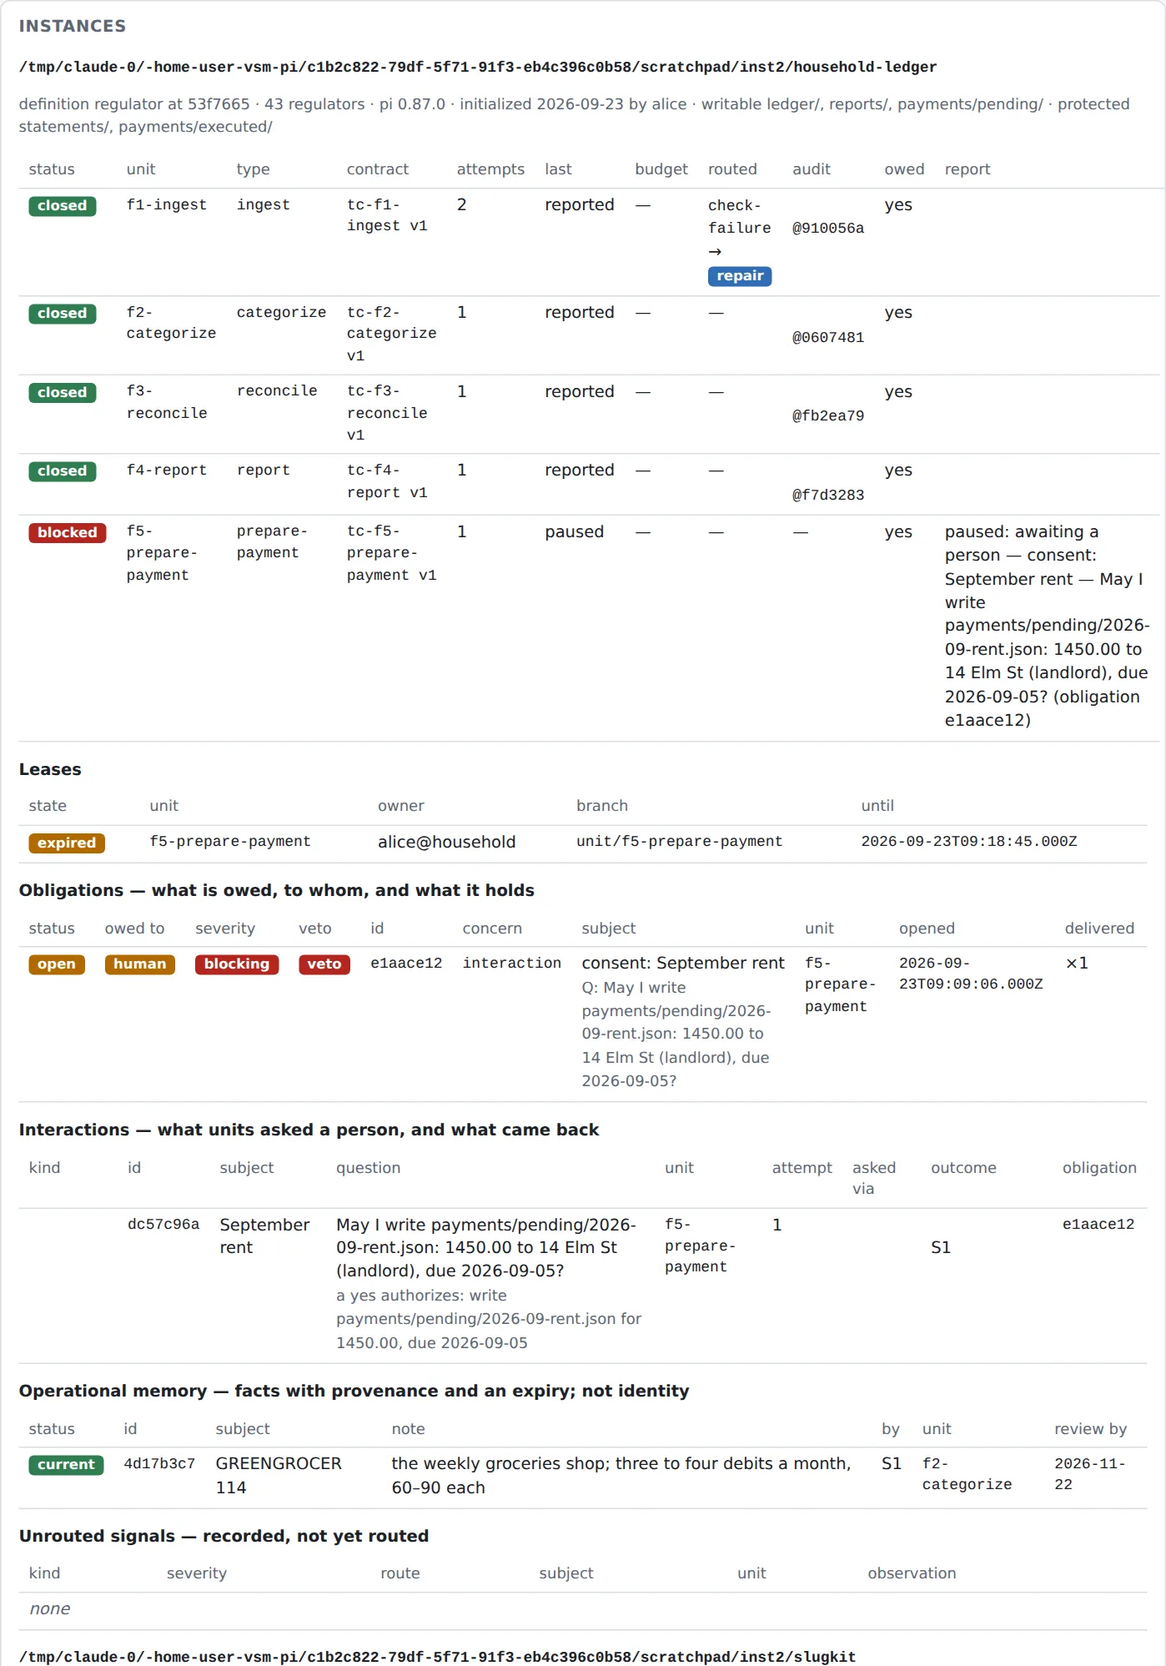
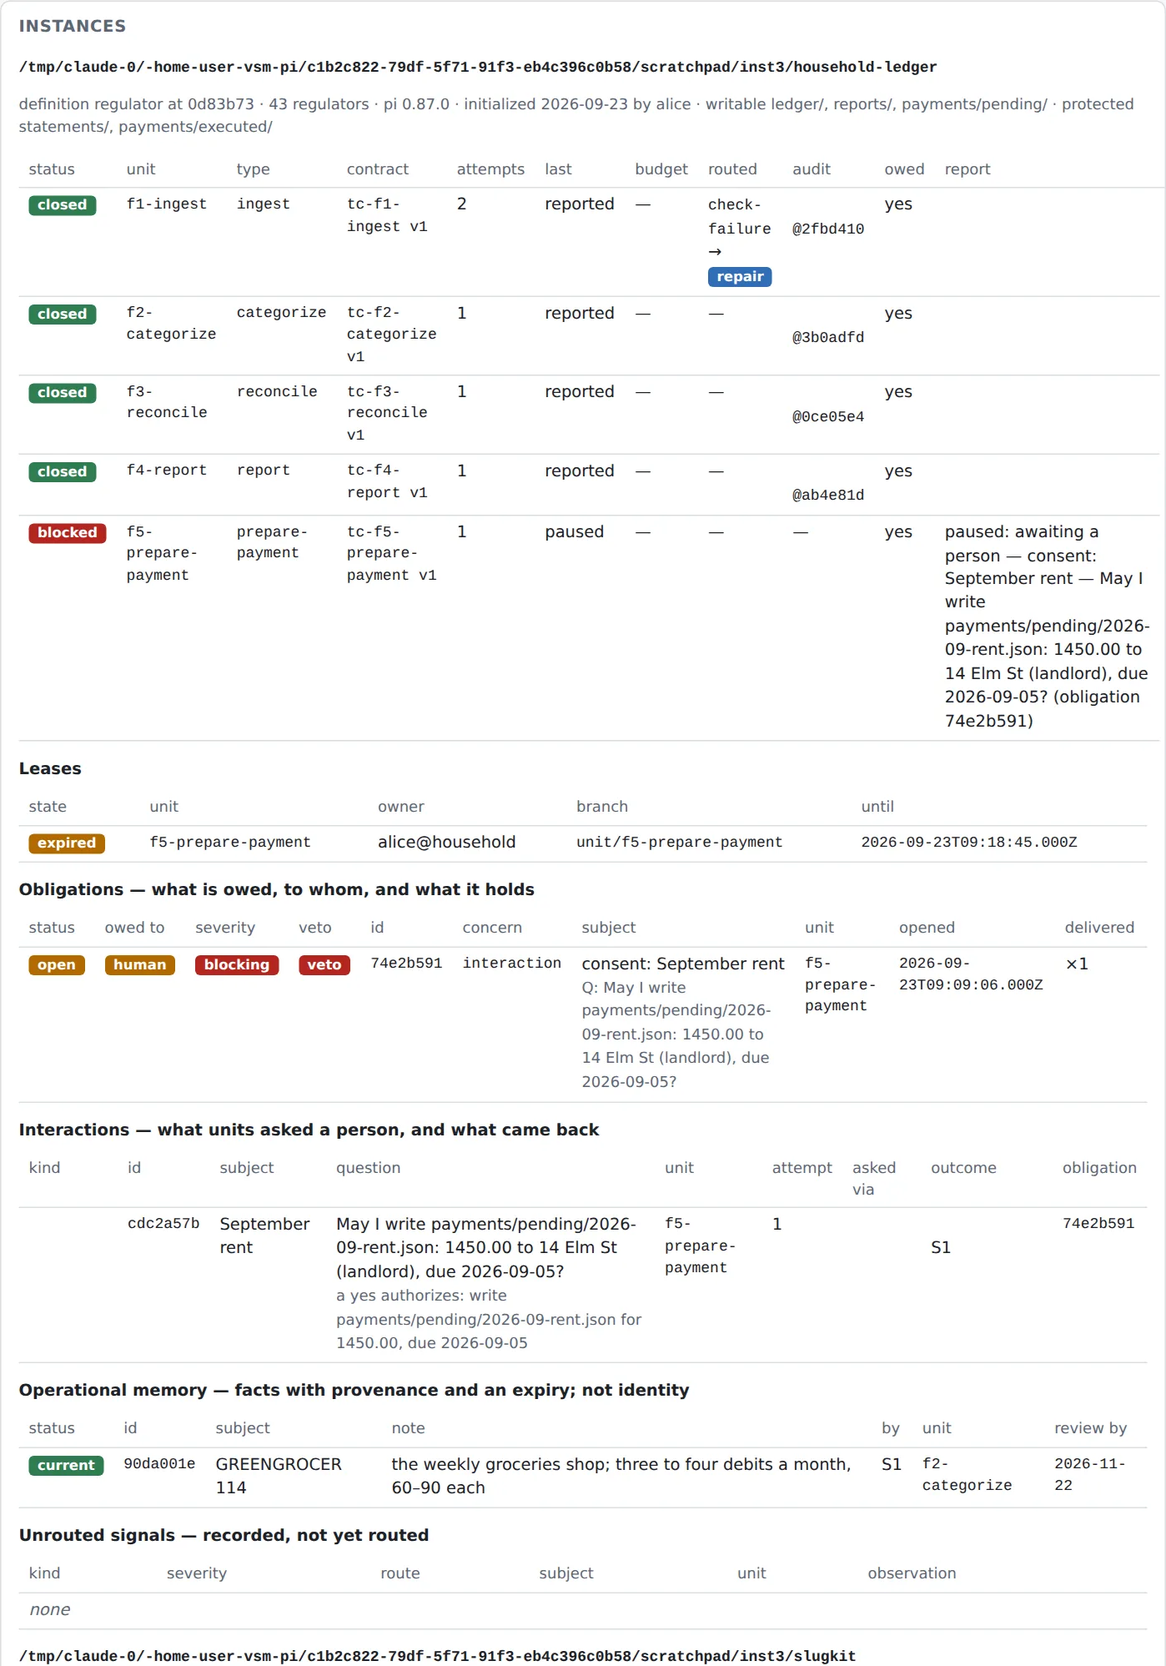
Sync with the product packages: packages/regulator and regulator-pi, repository renamed
- The product page's layout tree and status card describe the two packages: the
  control plane (@metacoding/regulator) and the Pi host (@metacoding/regulator-pi);
  course/lab is the course's own two early checkpoints and drills.
- Paths that named course/lab now name packages/regulator (how-it-works, the finance
  page); "checkpoints 2–9" reads as the host's session extensions.
- GitHub links point at MetaCoding-io/regulator, the repository's new name.
- Control-room screenshots retaken over the relocated definition.

Claude-Session: https://claude.ai/code/session_01L7rfzcdj2jFYFpYDZWGEvK

diff --git a/site/how-it-works.html b/site/how-it-works.html
@@ -134,7 +134,7 @@
   <p class="tag">The <button type="button" class="gl" data-term="orchestrator">orchestrator</button> never touches the code. It writes a contract, hands a
     session a worktree, reads the report the session wrote, re-runs the checks itself
     against the commit, and merges or routes. Everything on this page is what
-    <code>course/lab/src/controller.ts</code> and checkpoints 2–9 actually do; nothing is
+    <code>packages/regulator/src/controller.ts</code> and the Pi host's session extensions actually do; nothing is
     aspirational.</p>
   <p class="tag">This page runs deeper than the others on purpose. Where the product and
     course pages summarize, this one shows the actual sequence diagram, two state
@@ -146,7 +146,7 @@
   <div class="vocab">
     <div class="vocab-head">
       <span class="vocab-title">Vocabulary — for this page specifically</span>
-      <a class="vocab-more" href="https://github.com/MetaCoding-io/vsm-pi/blob/main/course/GLOSSARY.md" target="_blank" rel="noopener">Full glossary ↗</a>
+      <a class="vocab-more" href="https://github.com/MetaCoding-io/regulator/blob/main/course/GLOSSARY.md" target="_blank" rel="noopener">Full glossary ↗</a>
     </div>
     <dl class="vocab-grid">
       <dt>unit</dt><dd>The smallest piece of dispatched work — one contract, one session, one verdict.</dd>
@@ -169,7 +169,7 @@
   <div class="kicker">The loop<span class="tick"></span></div>
   <h2 class="title">Orchestrator, session, worktree, stores</h2>
   <p class="lede">Five participants. The orchestrator is the S3 loop in the base checkout.
-    The session is Pi with the checkpoints loaded, running in a git worktree that belongs to
+    The session is Pi with the host's extensions loaded, running in a git worktree that belongs to
     exactly one unit. The domain — the repository — is on the far right and is only ever
     read as a domain: never as state.</p>
 
@@ -189,7 +189,7 @@
         <text x="330" y="46" font-size="10" font-weight="400" fill="var(--ink-faint)">.regulator/units/u1/</text>
         <rect x="475" y="14" width="150" height="40" rx="4" fill="var(--signal-soft)" stroke="var(--signal)" stroke-width="1.4"/>
         <text x="550" y="31" fill="var(--signal-ink)">SESSION</text>
-        <text x="550" y="46" font-size="10" font-weight="400" fill="var(--ink-faint)">Pi + checkpoints 2–9</text>
+        <text x="550" y="46" font-size="10" font-weight="400" fill="var(--ink-faint)">Pi + regulator-pi</text>
         <rect x="695" y="14" width="150" height="40" rx="4" fill="var(--surface-2)" stroke="currentColor" stroke-width="1.2"/>
         <text x="770" y="31">WORKTREE</text>
         <text x="770" y="46" font-size="10" font-weight="400" fill="var(--ink-faint)">branch unit/u1</text>
@@ -501,7 +501,7 @@
     </table>
   </div>
   <p style="font-size:13px;color:var(--ink-faint);margin-top:12px;">Straight from
-    <code>course/lab/workload/software-development.json</code>. Note that <code>plan</code>
+    <code>packages/regulator/workload/software-development.json</code>. Note that <code>plan</code>
     is the one unit type that runs with no contract at all — it's the thing that
     <em>produces</em> contracts, so there's nothing yet for one to check it against.</p>
 </section>
@@ -509,7 +509,7 @@
 <section id="contract" class="wrap">
   <div class="kicker">A work contract<span class="tick"></span></div>
   <h2 class="title">What a unit is authorized to decide</h2>
-  <p class="lede">This is the real first contract from the lab, <code>course/lab/contracts/fix-known-issue.json</code>,
+  <p class="lede">This is the real first contract from the lab, <code>packages/regulator/contracts/fix-known-issue.json</code>,
     unchanged. A contract is not a task description: it allocates decisions. Some are fixed
     before the unit runs, some are delegated within bounds, and some are explicitly nobody's
     yet — and the report is refused if it settles one of those.</p>
@@ -851,7 +851,7 @@
     <div class="notes">
       <div class="note"><b>Two immutable files per attempt, one mutable</b>The contract and each report are written once with <code>wx</code> and never overwritten; <code>unit.json</code> is the one thing that changes, and it holds only status and the attempt count.</div>
       <div class="note"><b>Append-only logs, replayable</b>Attempts, observations, decisions, audit entries, signals and <button type="button" class="gl" data-term="effectjournal">effects</button> are NDJSON lines validated on write and on read. <code>regulator unit evidence u1</code> and the <button type="button" class="gl" data-term="controlroom">control room</button>'s inspector are replays of these files; the inspector's replay view lists one unit's records in time order, from the span projection.</div>
-      <div class="note"><b>The read model</b><code>regulator status --definition course/lab --instance &lt;repo&gt;</code> projects the definition (registry, workload, policies, profiles, identity, the eval suite and its committed reports, and each regulator's review date, ablation switch and retirement condition) and the instance (units with contract, report, budget, decisions, verdict and what is owed on them; leases; obligations with their deliveries; interactions — what units asked a person and what came back; memory; unrouted signals; the manifest) — from files only, the same shape as the <button type="button" class="gl" data-term="readmodel">read model</button> the control room serves. <code>regulator doctor</code> is the go/no-go over the same files before the first unit and in CI.</div>
+      <div class="note"><b>The read model</b><code>regulator status --definition packages/regulator --instance &lt;repo&gt;</code> projects the definition (registry, workload, policies, profiles, identity, the eval suite and its committed reports, and each regulator's review date, ablation switch and retirement condition) and the instance (units with contract, report, budget, decisions, verdict and what is owed on them; leases; obligations with their deliveries; interactions — what units asked a person and what came back; memory; unrouted signals; the manifest) — from files only, the same shape as the <button type="button" class="gl" data-term="readmodel">read model</button> the control room serves. <code>regulator doctor</code> is the go/no-go over the same files before the first unit and in CI.</div>
       <div class="note alarm"><b>What is not here</b>The transcript: Pi's session file is authoritative for the conversation and the orchestrator never reads it. And any notion of progress derived from the diff.</div>
     </div>
   </div>
@@ -863,9 +863,9 @@
     <div class="foot-links">
       <a href="product.html">The product</a>
       <a href="index.html">The course</a>
-      <a href="https://github.com/metacoding-io/vsm-pi/blob/main/course/lab/src/controller.ts">controller.ts ↗</a>
-      <a href="https://github.com/metacoding-io/vsm-pi/blob/main/course/lab/BOUNDARY.md">BOUNDARY.md ↗</a>
-      <a href="https://github.com/metacoding-io/vsm-pi/blob/main/docs/DEBT.md">DEBT.md ↗</a>
+      <a href="https://github.com/MetaCoding-io/regulator/blob/main/packages/regulator/src/controller.ts">controller.ts ↗</a>
+      <a href="https://github.com/MetaCoding-io/regulator/blob/main/packages/regulator/BOUNDARY.md">BOUNDARY.md ↗</a>
+      <a href="https://github.com/MetaCoding-io/regulator/blob/main/docs/DEBT.md">DEBT.md ↗</a>
     </div>
   </div>
 </footer>

diff --git a/site/personal-finance.html b/site/personal-finance.html
@@ -172,7 +172,7 @@
   <div class="vocab">
     <div class="vocab-head">
       <span class="vocab-title">Vocabulary — for this page specifically</span>
-      <a class="vocab-more" href="https://github.com/MetaCoding-io/vsm-pi/blob/main/course/GLOSSARY.md" target="_blank" rel="noopener">Full glossary ↗</a>
+      <a class="vocab-more" href="https://github.com/MetaCoding-io/regulator/blob/main/course/GLOSSARY.md" target="_blank" rel="noopener">Full glossary ↗</a>
     </div>
     <dl class="vocab-grid">
       <dt>workload</dt><dd>A declared set of unit types for one kind of job. This page's job is a household ledger, not code.</dd>
@@ -188,7 +188,7 @@
     <div class="start-head">Before you start</div>
     <div class="start-grid">
       <div><b>Time</b>~15 minutes to read straight through; a few more if you run step 3's commands yourself.</div>
-      <div><b>Prerequisites</b>None beyond curiosity to read it. To run it, <code>course/lab</code> built and <code>regulator</code> on the path (<code>OPERATING.md</code>) — otherwise just follow along.</div>
+      <div><b>Prerequisites</b>None beyond curiosity to read it. To run it, <code>packages/regulator</code> built and <code>regulator</code> on the path (<code>OPERATING.md</code>) — otherwise just follow along.</div>
       <div><b>What you'll have at the end</b>A second workload — a household ledger, not code — designed, declared, driven through five units, and read back in the control room.</div>
     </div>
   </div>
@@ -267,13 +267,13 @@
   <h2 class="title">A control plane is declared, not assembled</h2>
   <p class="lede">This is the whole implementation. Nothing in the orchestrator changed for it except
     one line: the CLI now loads the workload a contract names. Each file is in
-    <code>course/lab</code> and checked by <code>regulator check</code>.</p>
+    <code>packages/regulator</code> and checked by <code>regulator check</code>.</p>
 
   <p class="step-lead"><b style="color:var(--ink);font-family:var(--mono);">First, the domain</b> — this
     already exists as a fixture, so there's nothing to invent: a taxonomy, a protected
     statement, a ledger, and the checks that will judge every unit's work, sitting
     outside every write grant.</p>
-  <pre class="code"><b>household-ledger/</b>                <i>the domain: course/lab/fixture-finance</i>
+  <pre class="code"><b>household-ledger/</b>                <i>the domain: packages/regulator/fixture-finance</i>
   categories.json               the taxonomy (the person's)
   statements/                   the bank's exports — <u>protected</u>
     2026-08-checking.csv/.json
@@ -379,7 +379,7 @@ regulator init --writable ledger/,reports/,payments/pending/ \
                --protected statements/,payments/executed/ --by alice
 regulator doctor                                        <span class="c"># exit 1 on any problem</span>
 
-L=course/lab/contracts/finance; P=course/lab/policies/finance.json
+L=packages/regulator/contracts/finance; P=packages/regulator/policies/finance.json
 regulator unit drive $L/f1-ingest.json --policy $P
 regulator unit drive $L/f2-categorize.json --policy $P
 regulator unit drive $L/f3-reconcile.json --policy $P
@@ -388,7 +388,7 @@ regulator unit drive $L/f5-prepare-payment.json --policy $P   <span class="c"># 
 regulator obligations                                   <span class="c"># consent: September rent — owed to a person, veto</span>
 regulator answer &lt;obligation&gt; --by alice --answer yes
 regulator unit drive $L/f5-prepare-payment.json --policy $P   <span class="c"># the next attempt carries the answer</span>
-node packages/control-room/dist/cli.js --definition course/lab --instance ~/ledger</pre>
+node packages/control-room/dist/cli.js --definition packages/regulator --instance ~/ledger</pre>
   <ol class="steps">
     <li><span class="who">f1–f4</span><b>The first four units succeed — but not on their own word.</b> For each one, the host itself re-runs the ledger's real test suite — and the suite as it stood before the unit started, so a test the unit deleted or weakened counts against it — re-checks that no protected file (like the bank statement) changed, and scans for words the project has banned — all against the exact code the unit committed, not a summary of it. After each unit's work is merged in, the host runs the tests one more time on the combined result, just to catch anything the merge itself might have broken.</li>
     <li><span class="who">Open item</span><b>One transaction is left alone, on purpose.</b> A $120 debit from a merchant nobody recognizes doesn't get a guessed category — the categorize unit marks it <code>uncategorized</code> and flags it in its report as unresolved. The ledger still balances to the bank statement byte for byte; that one row is just visibly unresolved instead of silently wrong.</li>
@@ -405,7 +405,7 @@ node packages/control-room/dist/cli.js --definition course/lab --instance ~/ledg
     Nothing above required touching the orchestrator's code.
   </div>
 
-  <p style="font-size:13.5px;color:var(--ink-dim);margin-top:14px;">Without a model, <code>course/lab/src/finance.test.ts</code> drives exactly this with the scripted <code>bookkeeper</code> and <code>careless</code> units under <code>pnpm check</code>; the screenshots below are the control room over that instance.</p>
+  <p style="font-size:13.5px;color:var(--ink-dim);margin-top:14px;">Without a model, <code>packages/regulator/src/finance.test.ts</code> drives exactly this with the scripted <code>bookkeeper</code> and <code>careless</code> units under <code>pnpm check</code>; the screenshots below are the control room over that instance.</p>
 </section>
 
 <section id="room" class="wrap">
@@ -512,8 +512,8 @@ node packages/control-room/dist/cli.js --definition course/lab --instance ~/ledg
       <a href="product.html">The product</a>
       <a href="index.html">The course</a>
       <a href="how-it-works.html">How it works</a>
-      <a href="https://github.com/metacoding-io/vsm-pi/blob/main/course/examples/personal-finance.md">the example in the repo ↗</a>
-      <a href="https://github.com/metacoding-io/vsm-pi/tree/main/course/lab/fixture-finance">fixture-finance ↗</a>
+      <a href="https://github.com/MetaCoding-io/regulator/blob/main/course/examples/personal-finance.md">the example in the repo ↗</a>
+      <a href="https://github.com/MetaCoding-io/regulator/tree/main/packages/regulator/fixture-finance">fixture-finance ↗</a>
     </div>
   </div>
 </footer>

diff --git a/site/product.html b/site/product.html
@@ -305,7 +305,7 @@
   <div class="vocab">
     <div class="vocab-head">
       <span class="vocab-title">Vocabulary — worth knowing before you scroll</span>
-      <a class="vocab-more" href="https://github.com/MetaCoding-io/vsm-pi/blob/main/course/GLOSSARY.md" target="_blank" rel="noopener">Full glossary ↗</a>
+      <a class="vocab-more" href="https://github.com/MetaCoding-io/regulator/blob/main/course/GLOSSARY.md" target="_blank" rel="noopener">Full glossary ↗</a>
     </div>
     <dl class="vocab-grid">
       <dt>orchestrator</dt><dd>The control loop that dispatches work and checks it — it never edits code itself.</dd>
@@ -466,17 +466,20 @@
                   check, registry check + REGULATORS.md / BOUNDARY.md
   checks/         deterministic S3* checks: host-run verification
                   bound to a revision, the technical verdict
-  pi-extension/   Pi lifecycle integration, S5 write gate, typed
-                  proposal / audit-finding / uncertainty tools
+  regulator/      the control plane: the `regulator` CLI, the S3 loop,
+                  the stores, the host seam, and the definition —
+                  registry (43 records), identity, profiles, policies,
+                  workloads, the drift eval suite and its committed
+                  reports; OPERATING.md says who runs what
+  regulator-pi/   the Pi host: the eleven session extensions, the
+                  dispatcher, the S5 write gate, typed proposal /
+                  audit-finding / uncertainty tools; `pi install`
   cli/            `regulator status`: the read model over a
                   definition and an instance
   control-room/   read-only page over the read model
 
-<b>course/lab/</b>       reference build — checkpoints 0–14, three fixtures,
-                  the registry (43 records), identity, profiles, policies,
-                  the drift eval suite and its committed reports,
-                  workload, the `regulator` CLI; installs as a pi
-                  package, OPERATING.md says who runs what
+<b>course/lab/</b>       the course's own two early checkpoints and the
+                  drill scripts; the lessons cite packages/regulator
 <b>course/modules/</b>   lessons 01–15, written
 <b>docs/</b>             architecture, roadmap, design notes, DEBT.md
 <b>vsm/</b>               committed S5 artifacts for this repo itself</pre>
@@ -504,9 +507,10 @@
   <h2 class="title">A small loop, purpose-built for regulation</h2>
   <p class="lede">The orchestrator is nothing but the S3 loop — contract → dispatch →
     verify → route → close — generic over workloads, with leases, budgets and attempts as
-    immutable records. Ten checkpoints built it directly on bare Pi: gates, effects,
+    immutable records. It was built directly on bare Pi, one module per lesson: gates, effects,
     profiles, leases, contracts, budgets, recovery, audit and authority, with no workflow
-    engine underneath it. Workload-specific concerns stay out of the loop entirely,
+    engine underneath it. The Pi-specific half lives in its own package, <code>regulator-pi</code>,
+    behind a host seam: the control plane never imports a host, it resolves one by name. Workload-specific concerns stay out of the loop entirely,
     declared instead in a workload definition — which is what keeps the loop itself small
     enough to read in one sitting. <a href="how-it-works.html">How a unit runs through the
     loop</a> is drawn out on its own page.</p>
@@ -516,7 +520,7 @@
       <h3 style="font-size:14px;margin:0 0 10px;">The orchestrator, sized</h3>
       <p style="font-size:13.5px;color:var(--ink-dim);margin:0 0 12px;">Nothing but the S3
         loop, generic over <button type="button" class="gl" data-term="workload">workloads</button>, with <button type="button" class="gl" data-term="lease">leases</button>, budgets, and <button type="button" class="gl" data-term="attempt">attempts</button> as immutable records.
-        All five stages exist in <code>course/lab/src/controller.ts</code>:</p>
+        All five stages exist in <code>packages/regulator/src/controller.ts</code>:</p>
       <div class="diagram-shell" style="padding:16px;">
         <div style="display:flex;flex-wrap:wrap;gap:8px;align-items:center;font-family:var(--mono);font-size:12.5px;">
           <span class="pill written" style="border-radius:6px;">contract</span>
@@ -608,7 +612,7 @@
     <div><b style="color:var(--ink);"><code>--by</code> is asserted, not authenticated.</b> Disposition authority checks whether the named person may decide, not that the caller is that person; authentication is the deployment's to add.</div>
   </div>
   <div class="cards">
-    <div class="card"><div class="k">0–14</div><div class="l">Lab checkpoints built, each a loadable Pi extension tested without a model, under CI on two Node versions</div></div>
+    <div class="card"><div class="k">2</div><div class="l">Packages: <code>@metacoding/regulator</code>, the control plane, and <code>@metacoding/regulator-pi</code>, the Pi host — 0.1.0, Apache-2.0, tested without a model under CI on two Node versions</div></div>
     <div class="card"><div class="k">43</div><div class="l">Regulators in the <button type="button" class="gl" data-term="registryterm">registry</button>, each with a stated limitation, an ablation switch and a retirement condition; <code>REGULATORS.md</code> and <code>BOUNDARY.md</code> generated from the records</div></div>
     <div class="card"><div class="k">15 / 15</div><div class="l">Lessons written end to end; the capstone viability case is specified and its rubric awaits calibration</div></div>
   </div>
@@ -620,7 +624,7 @@
     <div class="foot-links">
       <a href="index.html">The course</a>
       <a href="how-it-works.html">How it works</a>
-      <a href="https://github.com/metacoding-io/vsm-pi">Repository ↗</a>
+      <a href="https://github.com/MetaCoding-io/regulator">Repository ↗</a>
       <a href="https://pi.dev/">Pi ↗</a>
     </div>
   </div>

diff --git a/site/index.html b/site/index.html
@@ -573,7 +573,7 @@
       <a href="product.html">The product</a>
       <a href="how-it-works.html">How it works</a>
       <a href="personal-finance.html">Worked example</a>
-      <a href="https://github.com/metacoding-io/vsm-pi">Repository ↗</a>
+      <a href="https://github.com/MetaCoding-io/regulator">Repository ↗</a>
       <a href="https://pi.dev/">Pi ↗</a>
     </div>
   </div>

diff --git a/site/README.md b/site/README.md
@@ -19,7 +19,7 @@ static files.
   directory contains.
 - `glossary.css` / `glossary.js` — the shared tap-to-toggle (with hover on desktop)
   vocabulary tooltip component all four pages use, sourced from
-  [`course/GLOSSARY.md`](https://github.com/MetaCoding-io/vsm-pi/blob/main/course/GLOSSARY.md).
+  [`course/GLOSSARY.md`](https://github.com/MetaCoding-io/regulator/blob/main/course/GLOSSARY.md).
 - `img/control-room/` — screenshots of `packages/control-room` over three instances (the
   ledger after its scripted August close, the drift scenario run by the drifter, and the
   fixture-repo close on the how-it-works page); retake them when the page changes.

diff --git a/README.md b/README.md
@@ -1,7 +1,7 @@
 # vsm-pi-website
 
 The public landing pages for VSM-Pi and its course, Viable Agents. The
-[VSM-Pi](https://github.com/MetaCoding-io/vsm-pi) repository itself is private; this repo
+[VSM-Pi](https://github.com/MetaCoding-io/regulator) repository itself is private; this repo
 exists so the pitch, the control model, and the course syllabus can be public and served
 from GitHub Pages without exposing the source.
 
